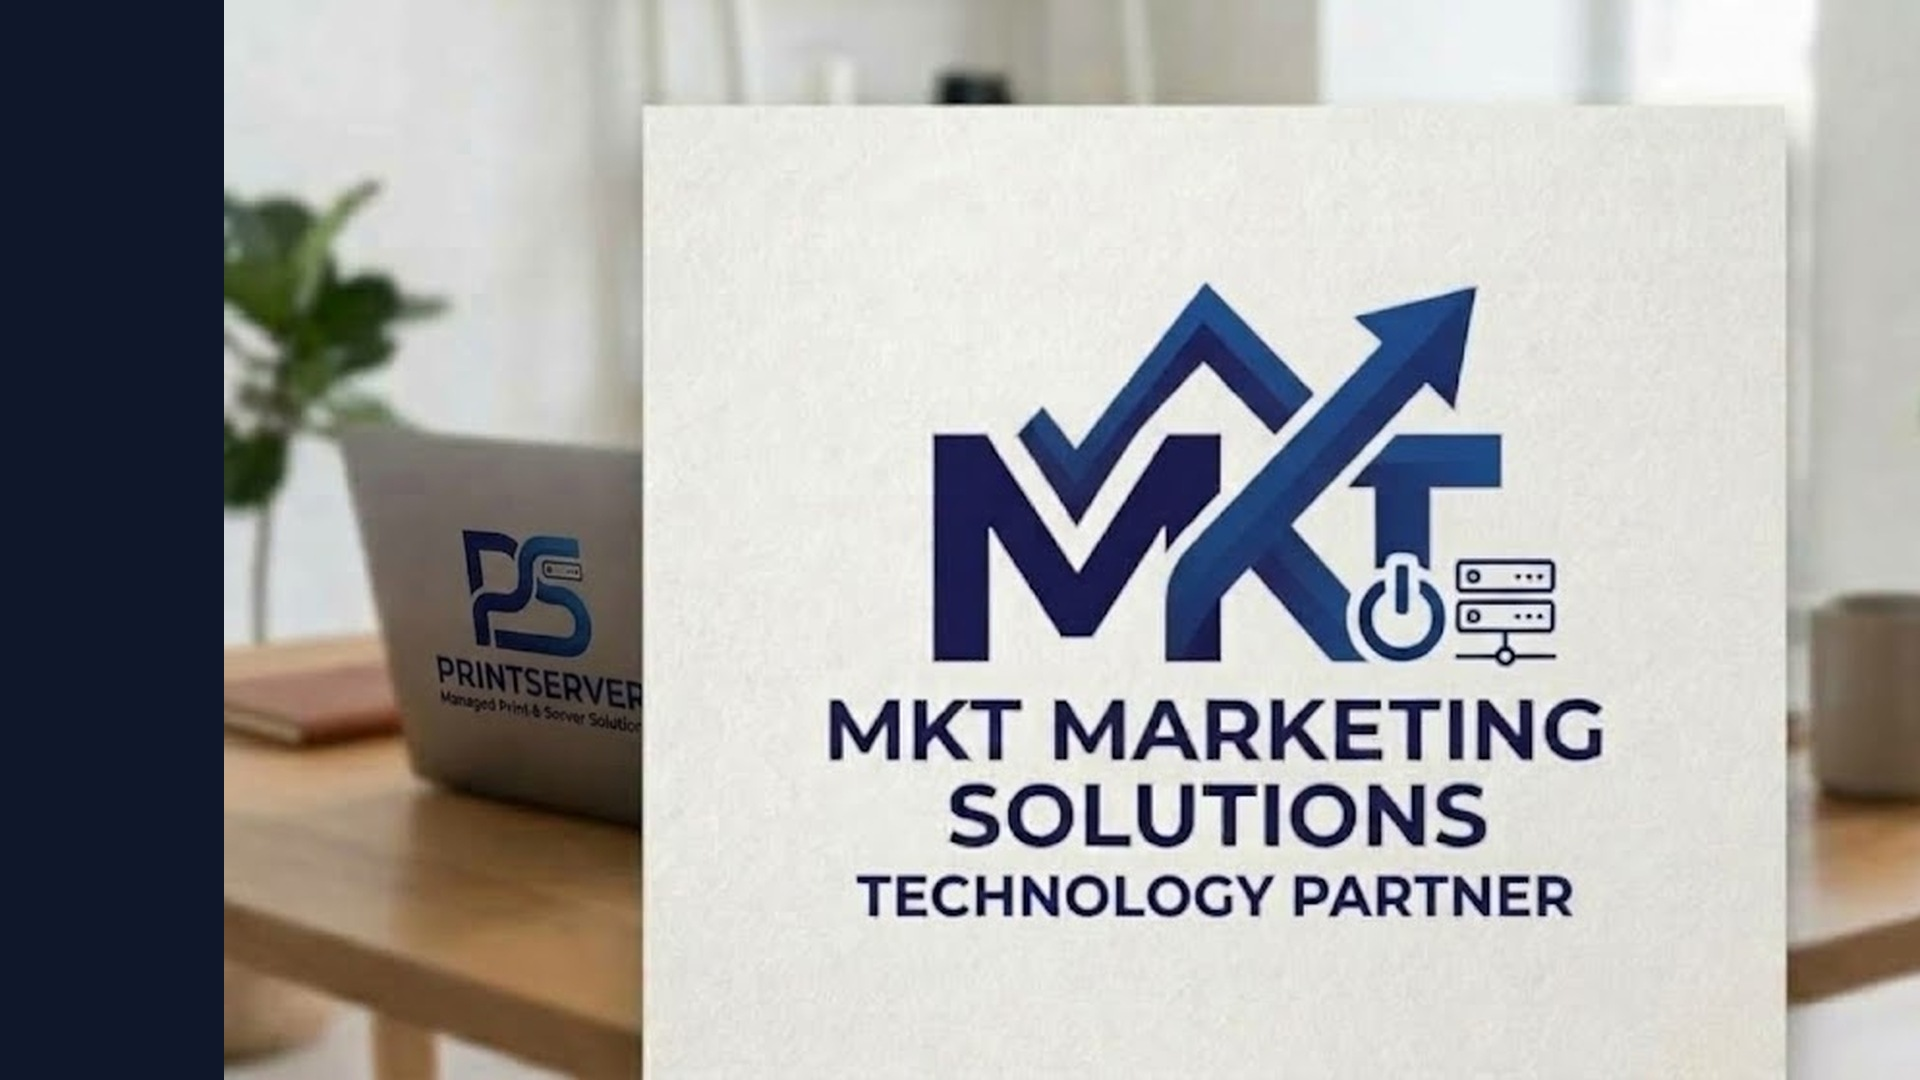
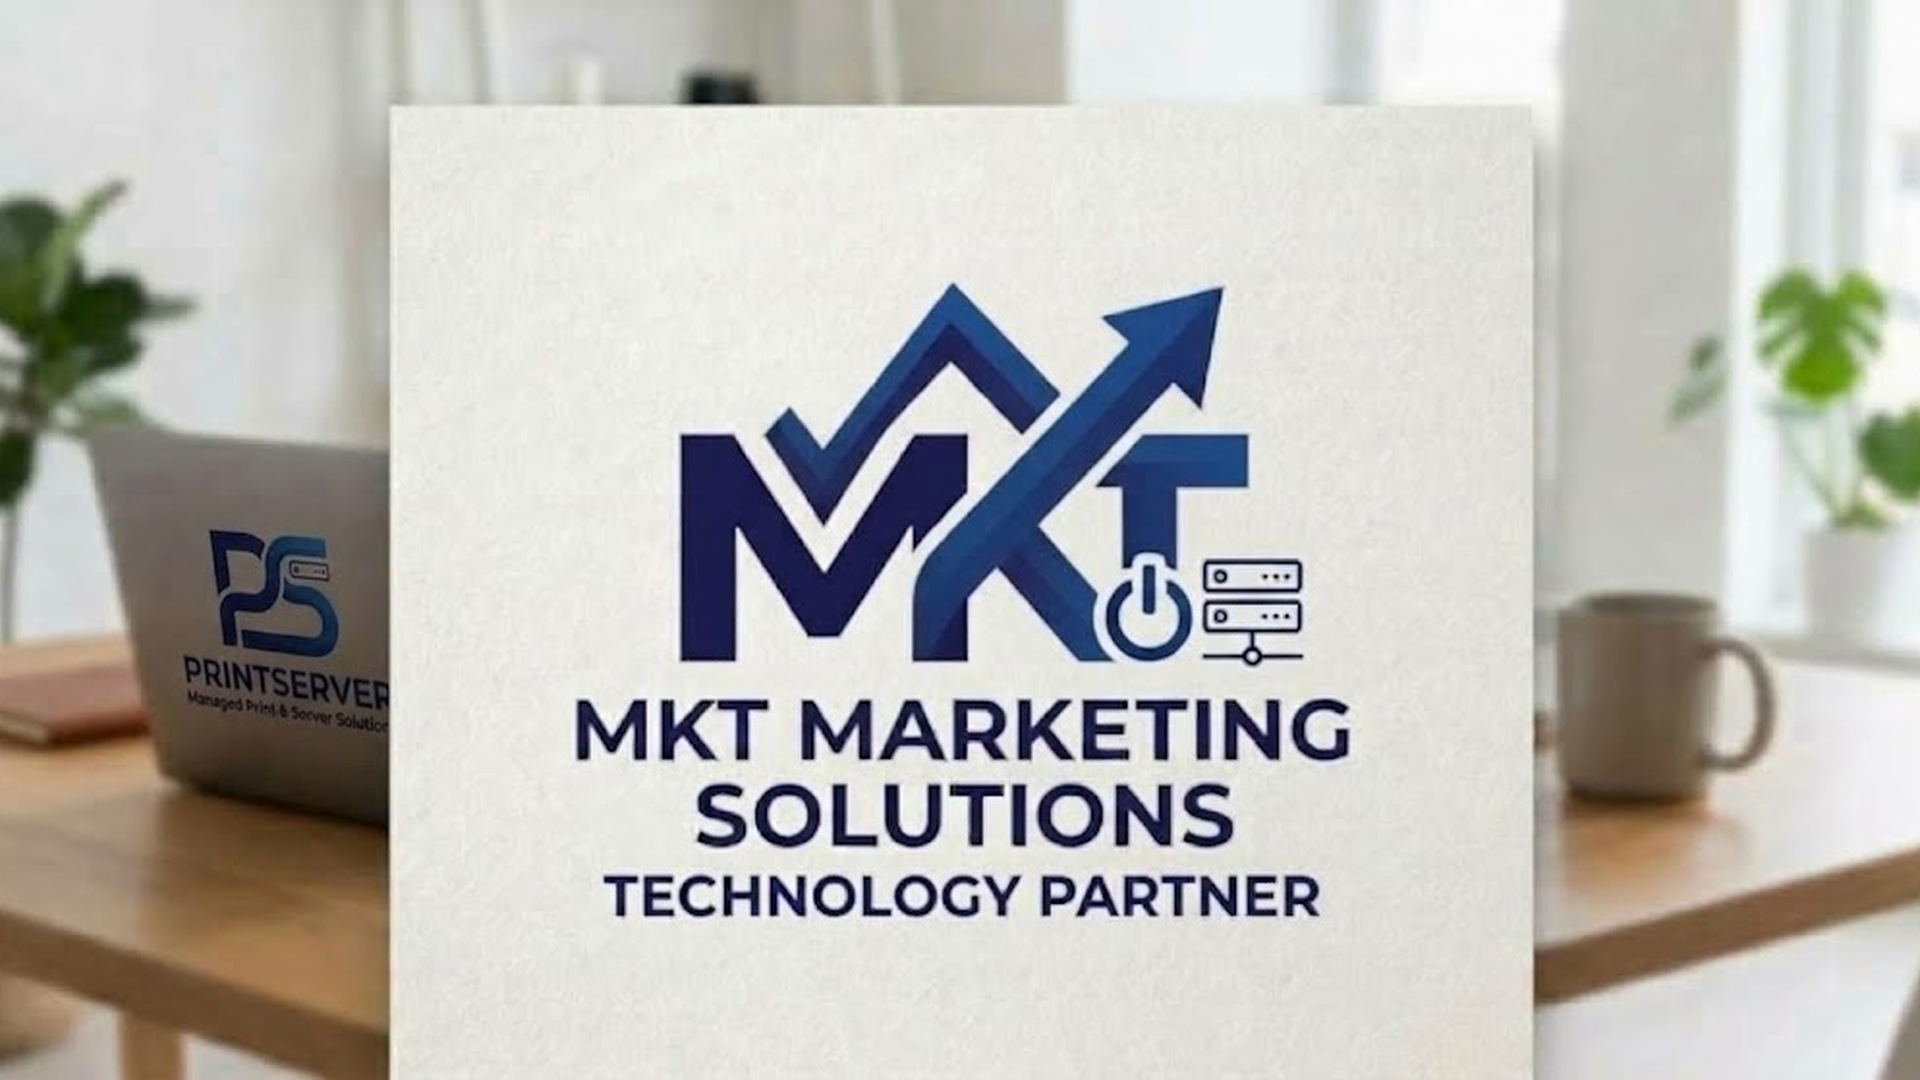
fix: make login page background 100% full screen without left stripe

diff --git a/server.js b/server.js
@@ -3298,7 +3298,7 @@ const HTML = `<!DOCTYPE html>
   --blue:#3b82f6;--green:#22c55e;--red:#ef4444;--amber:#f59e0b;--orange:#f97316;
 }
 :root{--bg-overlay-opacity:0.78;--bg:#0f172a;--surface:rgba(15,23,42,0.85);--surface2:rgba(15,23,42,0.92);--border:rgba(255,255,255,0.16);--border2:rgba(59,130,246,0.4);--text:#ffffff;--muted:#cbd5e1;--subtle:#f1f5f9;--blue:#3b82f6;--green:#22c55e;--red:#ef4444;--amber:#f59e0b;--orange:#f97316;}
-body{font-family:'Segoe UI',system-ui,sans-serif;background:linear-gradient(135deg,rgba(15,23,42,var(--bg-overlay-opacity, 0.78)),rgba(15,23,42,var(--bg-overlay-opacity, 0.78))),url('/bg.jpg') center/cover no-repeat fixed;color:var(--text);min-height:100vh}
+body{font-family:'Segoe UI',system-ui,sans-serif;background:linear-gradient(135deg,rgba(15,23,42,var(--bg-overlay-opacity, 0.78)),rgba(15,23,42,var(--bg-overlay-opacity, 0.78))),url('/bg.jpg') calc(50% + 112px) center/cover no-repeat fixed;color:var(--text);min-height:100vh}
 .layout{display:flex;min-height:100vh}
 .sidebar{width:224px;background:rgba(15,23,42,0.88);backdrop-filter:blur(20px);-webkit-backdrop-filter:blur(20px);border-right:1px solid var(--border);display:flex;flex-direction:column;position:fixed;top:0;left:0;bottom:0;z-index:20;overflow-y:auto}
 .sidebar-logo{padding:18px 16px;border-bottom:1px solid var(--border);display:flex;align-items:center;gap:10px;font-weight:700;font-size:1.05rem;color:#ffffff;text-shadow:0 1px 2px rgba(0,0,0,0.5)}
